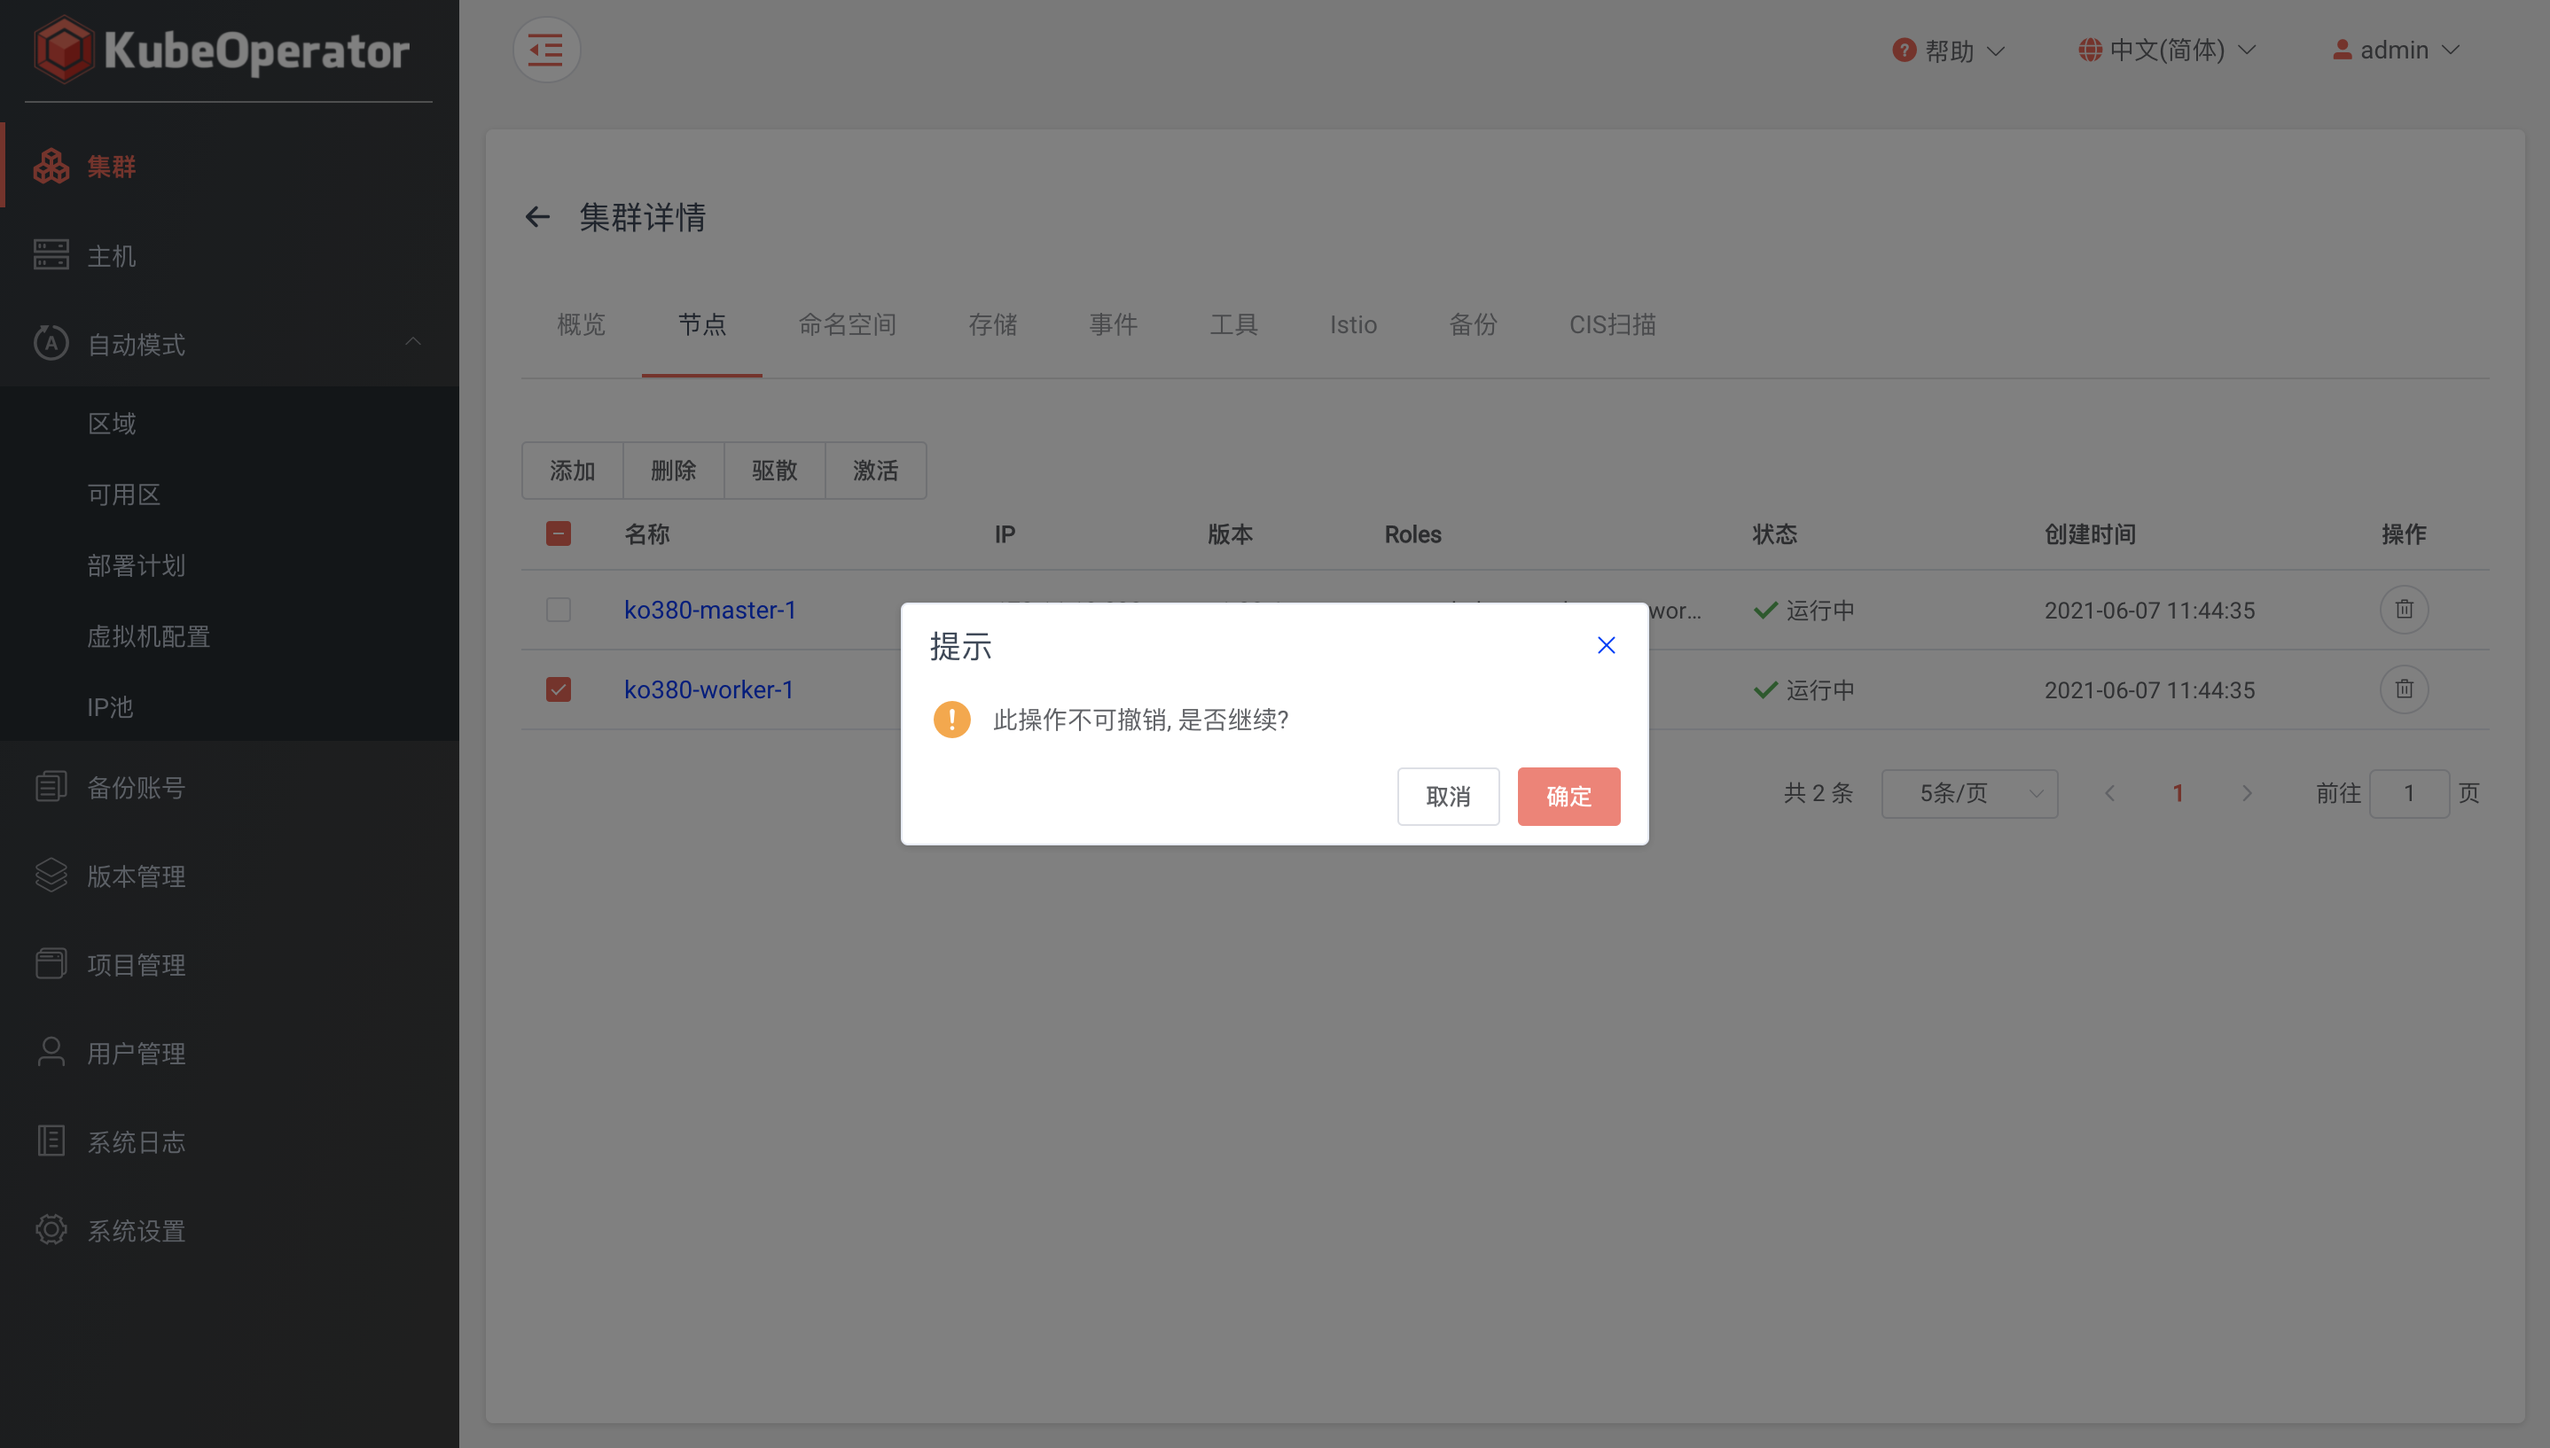
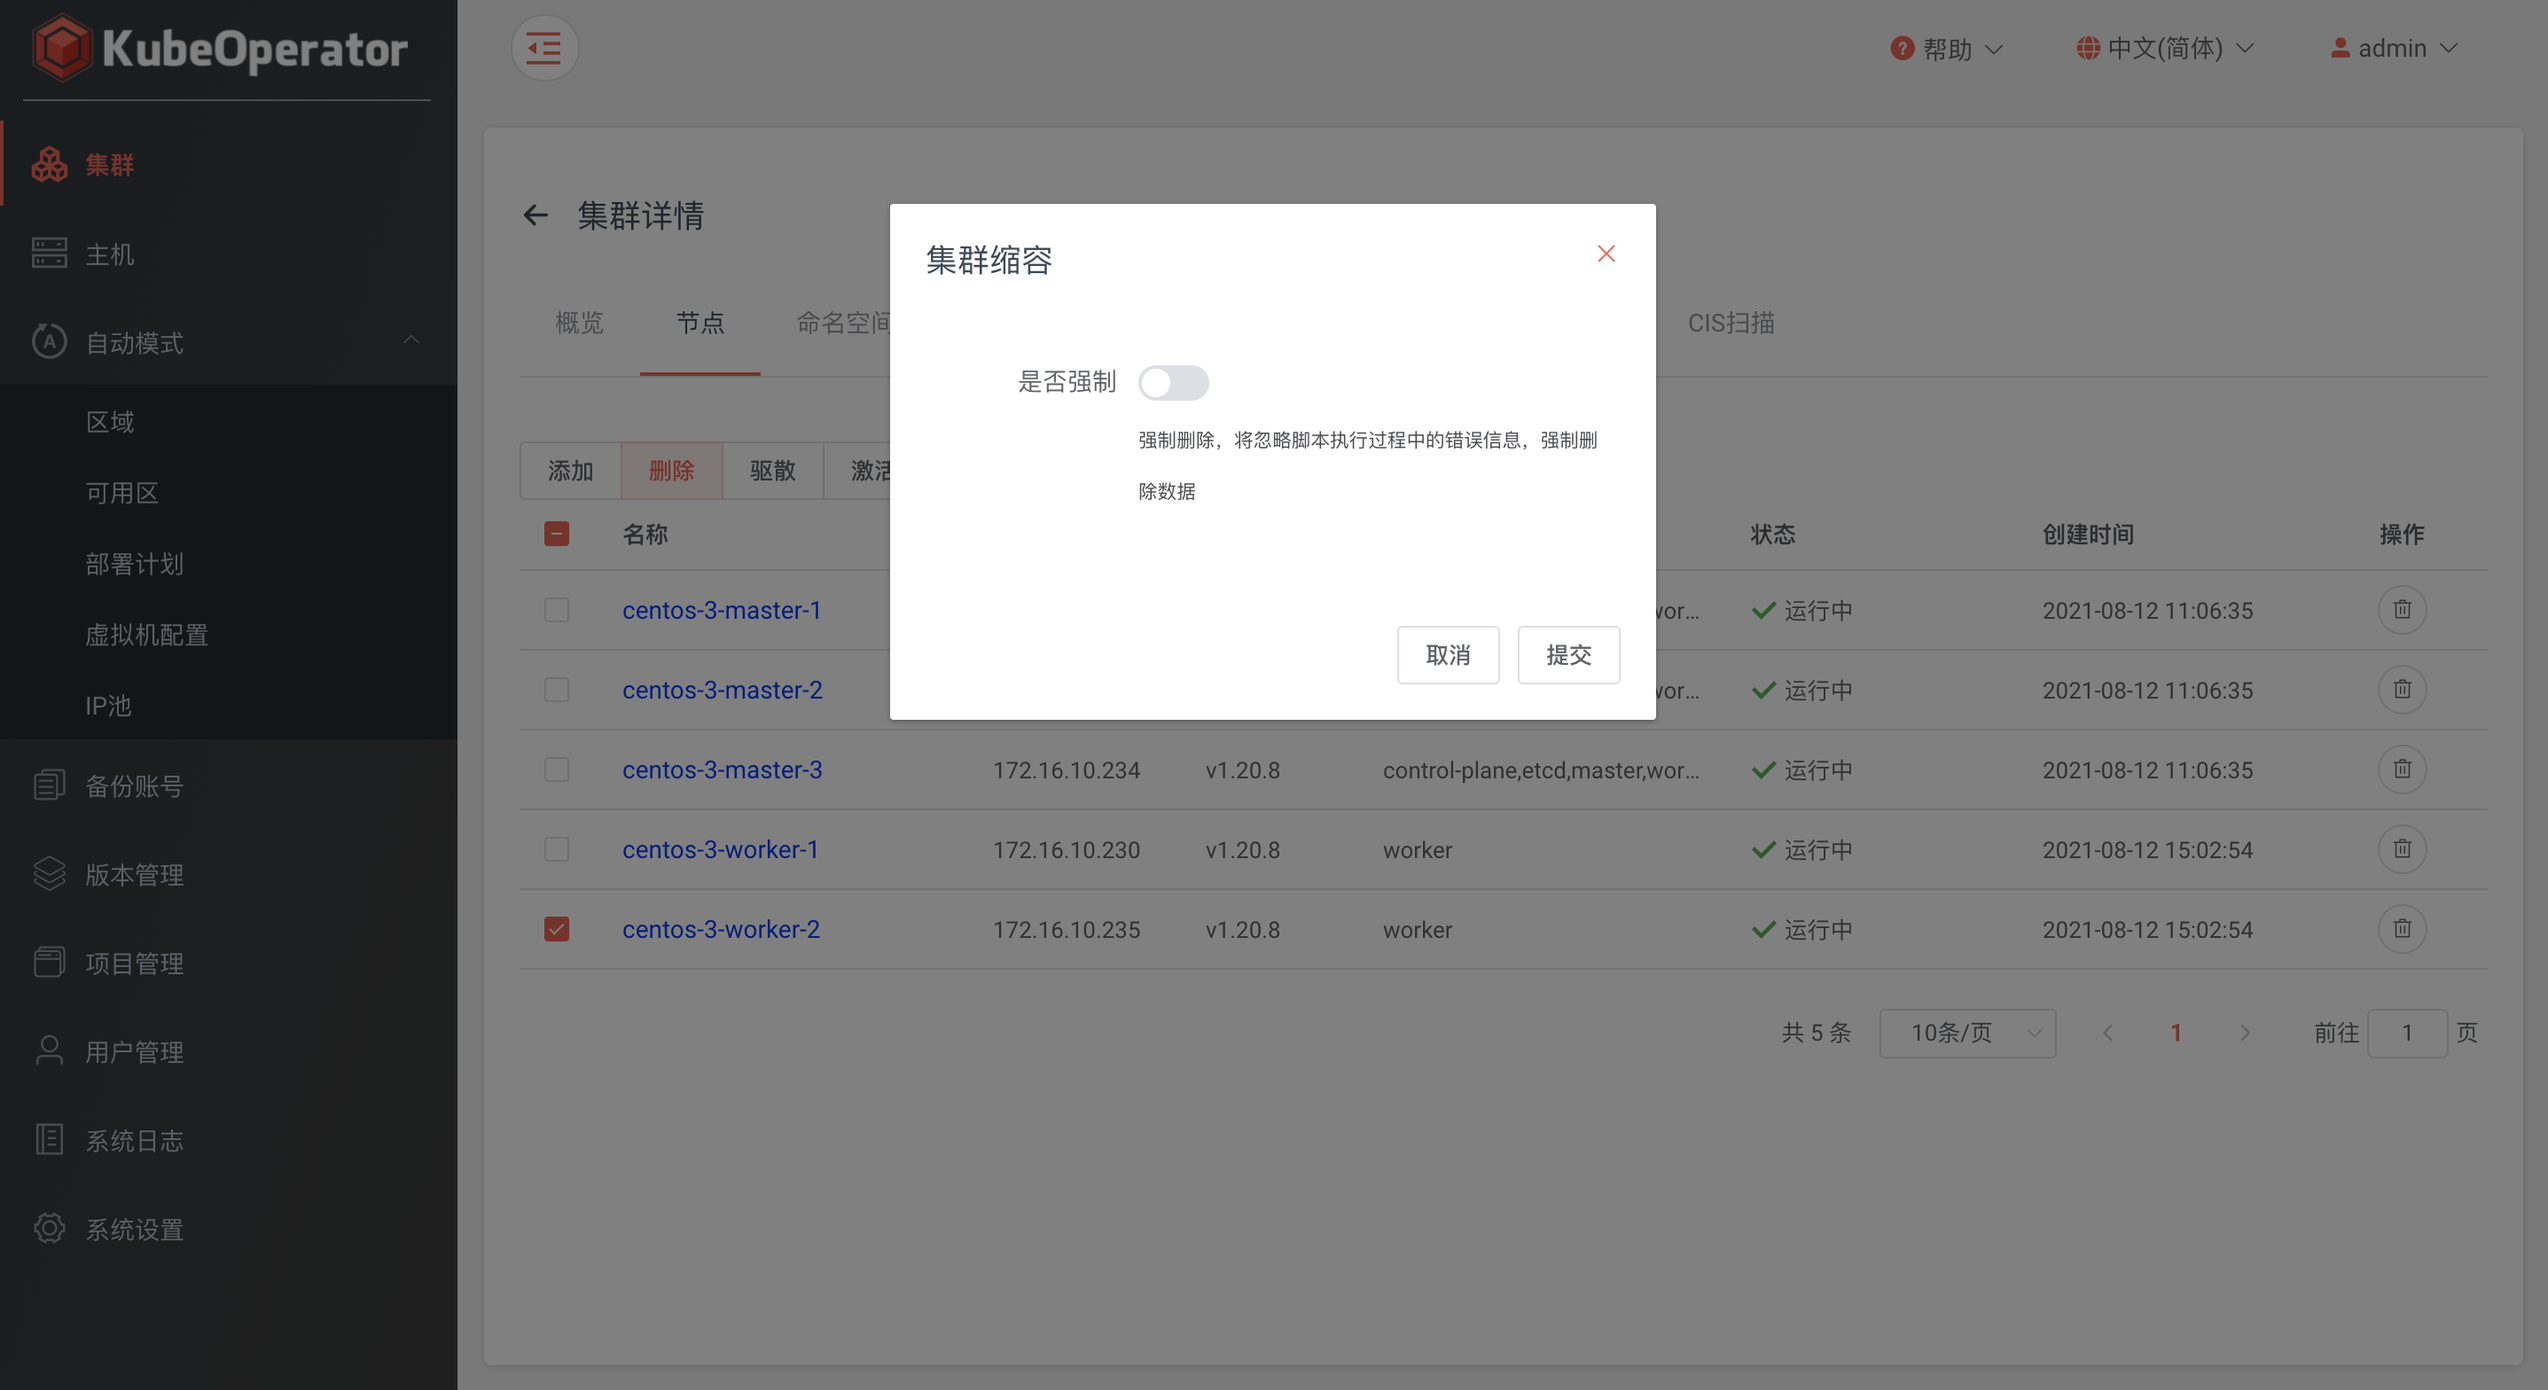
v3.10.0 changelog

diff --git a/docs/user_manual/cluster.md b/docs/user_manual/cluster.md
@@ -12,25 +12,27 @@
 
 ![overview-2](../img/user_manual/cluster/overview-2.png)
 
-### 集群扩容、缩容
+### 节点
 
 !!! warning ""
-    显示集群节点相关信息。支持针对 Kubernetes 集群 worker 节点的扩缩容
+    集中显示了集群所有节点的基础信息
 
 ![node-1](../img/user_manual/cluster/node-1.png)
 
 !!! warning ""
-    worker 节点扩容（手动模式选择要添加的主机，自动模式输入扩容后 worker 节点数量）
+    点击节点，可查看节点标签、运行状态等具体信息
 
-![node-2](../img/user_manual/cluster/node-2.png)
+![node-detail](../img/user_manual/cluster/node-detail.png)
 
-![node-3](../img/user_manual/cluster/node-3.png)
+!!! warning "驱散"
+    * 驱散成功后，节点将处于不可调度状态
+    * 安全模式: 如果节点拥有独立的 Pod 或临时的数据，它将被隔离但不会被驱散
+    * 强制模式: 独立 Pods 和它们的数据将永久删除
 
-!!! warning ""
-    * 自动模式: 删除所选节点虚拟机
-    * 手动模式: 在所选节点执行卸载任务，删除该节点上安装 k8s 集群所依赖的服务（节点删除成功后，要手动重启该节点来删除虚拟网卡等信息）
+![node-cordon](../img/user_manual/cluster/node-cordon.png)
 
-![node-4](../img/user_manual/cluster/node-4.png)
+!!! warning "激活"
+    撤销已驱散节点的不可调度状态
 
 ### 命名空间
 
@@ -151,12 +153,32 @@
 
 ![cluster-upgrade](../img/user_manual/cluster/cluster-upgrade.png)
 
+### 集群扩容、缩容
+
+!!! warning "worker 节点扩容"
+    手动模式选择要添加的主机，自动模式输入扩容后 worker 节点数量
+
+![node-3](../img/user_manual/cluster/node-3.png)
+
+![node-2](../img/user_manual/cluster/node-2.png)
+
+!!! warning "worker 节点缩容"
+    * 自动模式: 将所选节点在集群中删除，然后删除所选节点虚拟机
+    * 手动模式: 将所选节点在集群中删除，然后在所选节点执行卸载脚本(删除节点上安装的 k8s 集群所依赖的服务)
+    * 强制删除: 将忽略脚本执行过程中的错误信息，强制删除数据
+
+![node-4](../img/user_manual/cluster/node-4.png)
+
+!!! warning "注意"
+    手动模式节点删除成功后，要手动重启该节点来删除虚拟网卡等信息
+
 ### 集群诊断、修复
 
 !!! warning "诊断"
-    * 检查集群节点网络是否可用
-    * 检查 kubeoperator_server 容器内是否可以 ssh 连接到 kubernetes 集群节点
-    * 检查 kubeoperator_server 容器内是否可以正常调用 kubernetes api
+    * 检测节点可连接性
+    * 检测集群 Token 是否匹配
+    * 检测集群 API 是否已就绪
+    * 检测集群节点是否同步
 
 ![cluster-diagnosis](../img/user_manual/cluster/cluster-diagnosis.png)
 

diff --git a/docs/user_manual/hosts.md b/docs/user_manual/hosts.md
@@ -5,17 +5,28 @@
 ### 列表
 
 !!! warning ""
-    * 主机列表可以看到已添加主机的详细信息，包括 IP、CPU、内存、操作系统等
+    * 主机列表可以查看已添加主机的详细信息，包括 IP、CPU、内存、操作系统等
+    * 点击主机，查看主机基础信息和磁盘信息
 
 ![host-list](../img/user_manual/hosts/host-list.png)
+
+![host-detail](../img/user_manual/hosts/host-detail.png)
 
 ### 添加
 
 !!! warning ""
-    * 推荐使用全新的机器
+    * 集群节点推荐使用全新的服务器
     * KubeOperator 部署机不能作为 Kubernetes 集群节点使用
 
 ![host-add](../img/user_manual/hosts/host-add.png)
+
+### 编辑
+
+!!! warning ""
+    支持编辑非绑定状态的主机
+
+![host-edit](../img/user_manual/hosts/host-edit.png)
+
 
 ### 批量导入
 
@@ -29,13 +40,12 @@
 ### 授权
 
 !!! warning ""
-    * 系统管理员或项目管理员可将主机授权给目标集群所在项目
-
-![host-authorization](../img/user_manual/hosts/host-authorization.png)
+    * 点击授权按钮后，授权操作会统一在项目管理菜单中实现
+    * 系统管理员和项目管理员可以将主机授权到项目或集群，同时支持在项目和集群中取消已授权的主机
 
 ### 同步 
 
 !!! warning ""
-    * 如果主机状态异常或者手动更新过主机配置，可以点击同步按钮来同步主机基本信息和磁盘信息
+    如果主机状态异常或主机配置有手动更新，可以点击同步按钮来实现主机状态和配置的一致
 
 ![host-refresh](../img/user_manual/hosts/host-refresh.png)

diff --git a/docs/about/changelog.md b/docs/about/changelog.md
@@ -14,6 +14,37 @@
     * 在 v3.3 发布前，我们会同时维护 v3.0、v3.1、v3.2
     * 在 v3.3 发布后，我们会同时维护 v3.1、v3.2、v3.3；v3.0 会停止维护
 
+## v3.10.0
+------------------------
+2021年8月12日
+
+!!! info "支持 k8s 版本"
+支持的 k8s 版本是 1.20.8、v1.18.20
+
+!!! info "新增功能"
+    - 集群高可用部署支持 VIP
+    - 集群节点扩容支持实时查看日志和错误重试
+    - 集群节点支持强制删除
+
+!!! summary "功能优化"
+    - 支持修改非绑定状态的主机
+    - 支持自定义 NodePort 端口范围和地址
+    - 创建集群时支持设置 service CIDR
+    - 集群节点扩容时同步设置 dns 缓存
+    - 集群节点添加、删除时同步刷新节点 hosts 记录
+    - Prometheus 服务类型修改为 NodePort
+    - 导入集群支持设置架构信息
+    - 实时同步集群状态
+    - 集群备份逻辑优化
+    - 集群诊断功能优化
+    - 集群备份功能优化
+    - 集群强制删除功能优化
+
+!!! success "Bug 修复"
+    - 修复了导入集群使用集群评分功能异常的问题
+    - 修复了集群节点没有根据名称排序的问题
+    - 修复部分编辑页面刷新后定位错误的问题
+
 ## v3.9.0
 ------------------------
 2021年7月8日

diff --git a/docs/user_manual/backup_account.md b/docs/user_manual/backup_account.md
@@ -2,6 +2,16 @@
 !!! warning ""
     * 目前的备份账号功能支持四种不同种类的存储，即 AWS S3、aliyun oss、Azure 和 SFTP
 
+### 添加
+
 ![backup-create.png](../img/user_manual/backup_account/backup-1.png)
 
+### 列表
+
 ![backup-list.png](../img/user_manual/backup_account/backup-2.png)
+
+### 授权
+
+!!! warning ""
+    * 点击授权按钮后，授权操作会统一在项目管理菜单中实现
+    * 系统管理员和项目管理员可以将备份账号授权到项目或集群，同时支持在项目和集群中取消已授权的备份账号
